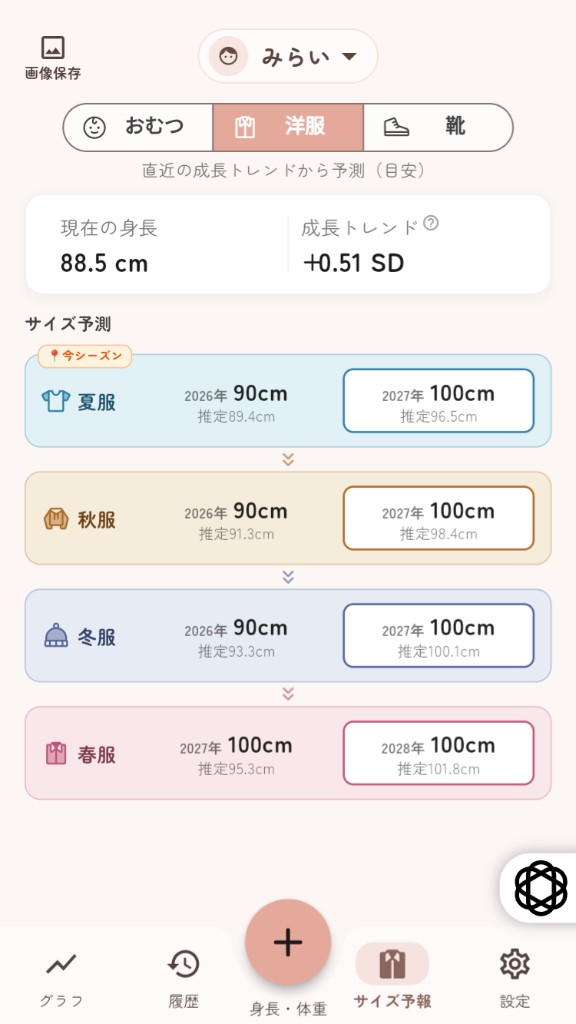
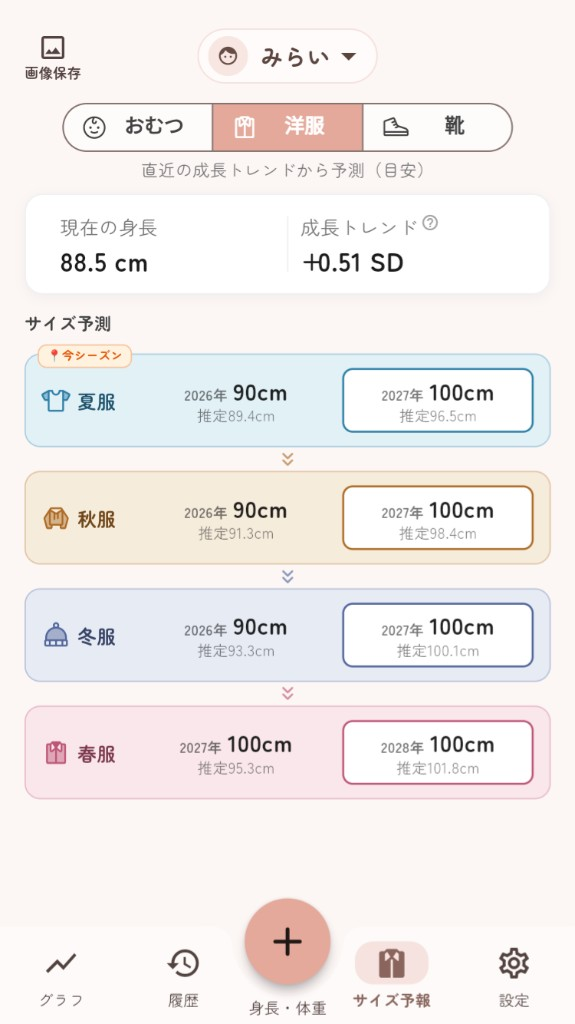
紹介ページのスクショを撮り直し版（オーバーレイ写り込みなし）に差し替え、スライドを再書き出し

diff --git a/scripts/update_site_images.py b/scripts/update_site_images.py
@@ -12,12 +12,13 @@ from PIL import Image
 SRC = r"C:\Users\sawaw\.cursor\projects\c-grow-app\assets"
 DST = r"c:\grow_app\docs\screenshots"
 
+# 2026-08-08 撮り直し版（右下のブラウザオーバーレイ写り込みなし）
 screens = {
-    "localhost_8083__iPhone_SE___21_-257e37e6-b0fd-4164-8c5e-0f86ea50d7ba.png": "growth-curve.png",
-    "localhost_8083__iPhone_SE___22_-f8d1fc37-e06a-4ff1-b7cb-2251d7f173bb.png": "sd-score.png",
-    "localhost_8083__iPhone_SE___23_-e2175e82-5976-465f-9a6a-5b94d9735430.png": "diaper-guide.png",
-    "localhost_8083__iPhone_SE___24_-d74a01b1-f8b1-46f6-a0b4-01fdcd0e90f2.png": "clothing-guide.png",
-    "localhost_8083__iPhone_SE___25_-fd911baf-425b-4d44-9027-8c49b8cf4e05.png": "shoe-guide.png",
+    "localhost_8083__iPhone_SE___28_-4e8e2bf9-0e21-4459-ae07-2984a5306c01.png": "growth-curve.png",
+    "localhost_8083__iPhone_SE___29_-235113d0-5509-4439-97da-6a793e3abefd.png": "sd-score.png",
+    "localhost_8083__iPhone_SE___31_-3ebc4ab1-914a-4290-856b-4a4a6083151f.png": "diaper-guide.png",
+    "localhost_8083__iPhone_SE___30_-02059530-7c9b-4a2f-9bf5-ba6880a6b8f5.png": "clothing-guide.png",
+    "localhost_8083__iPhone_SE___32_-572fbefa-1a72-4afd-9d5e-8fa132421f47.png": "shoe-guide.png",
 }
 
 squares = {
